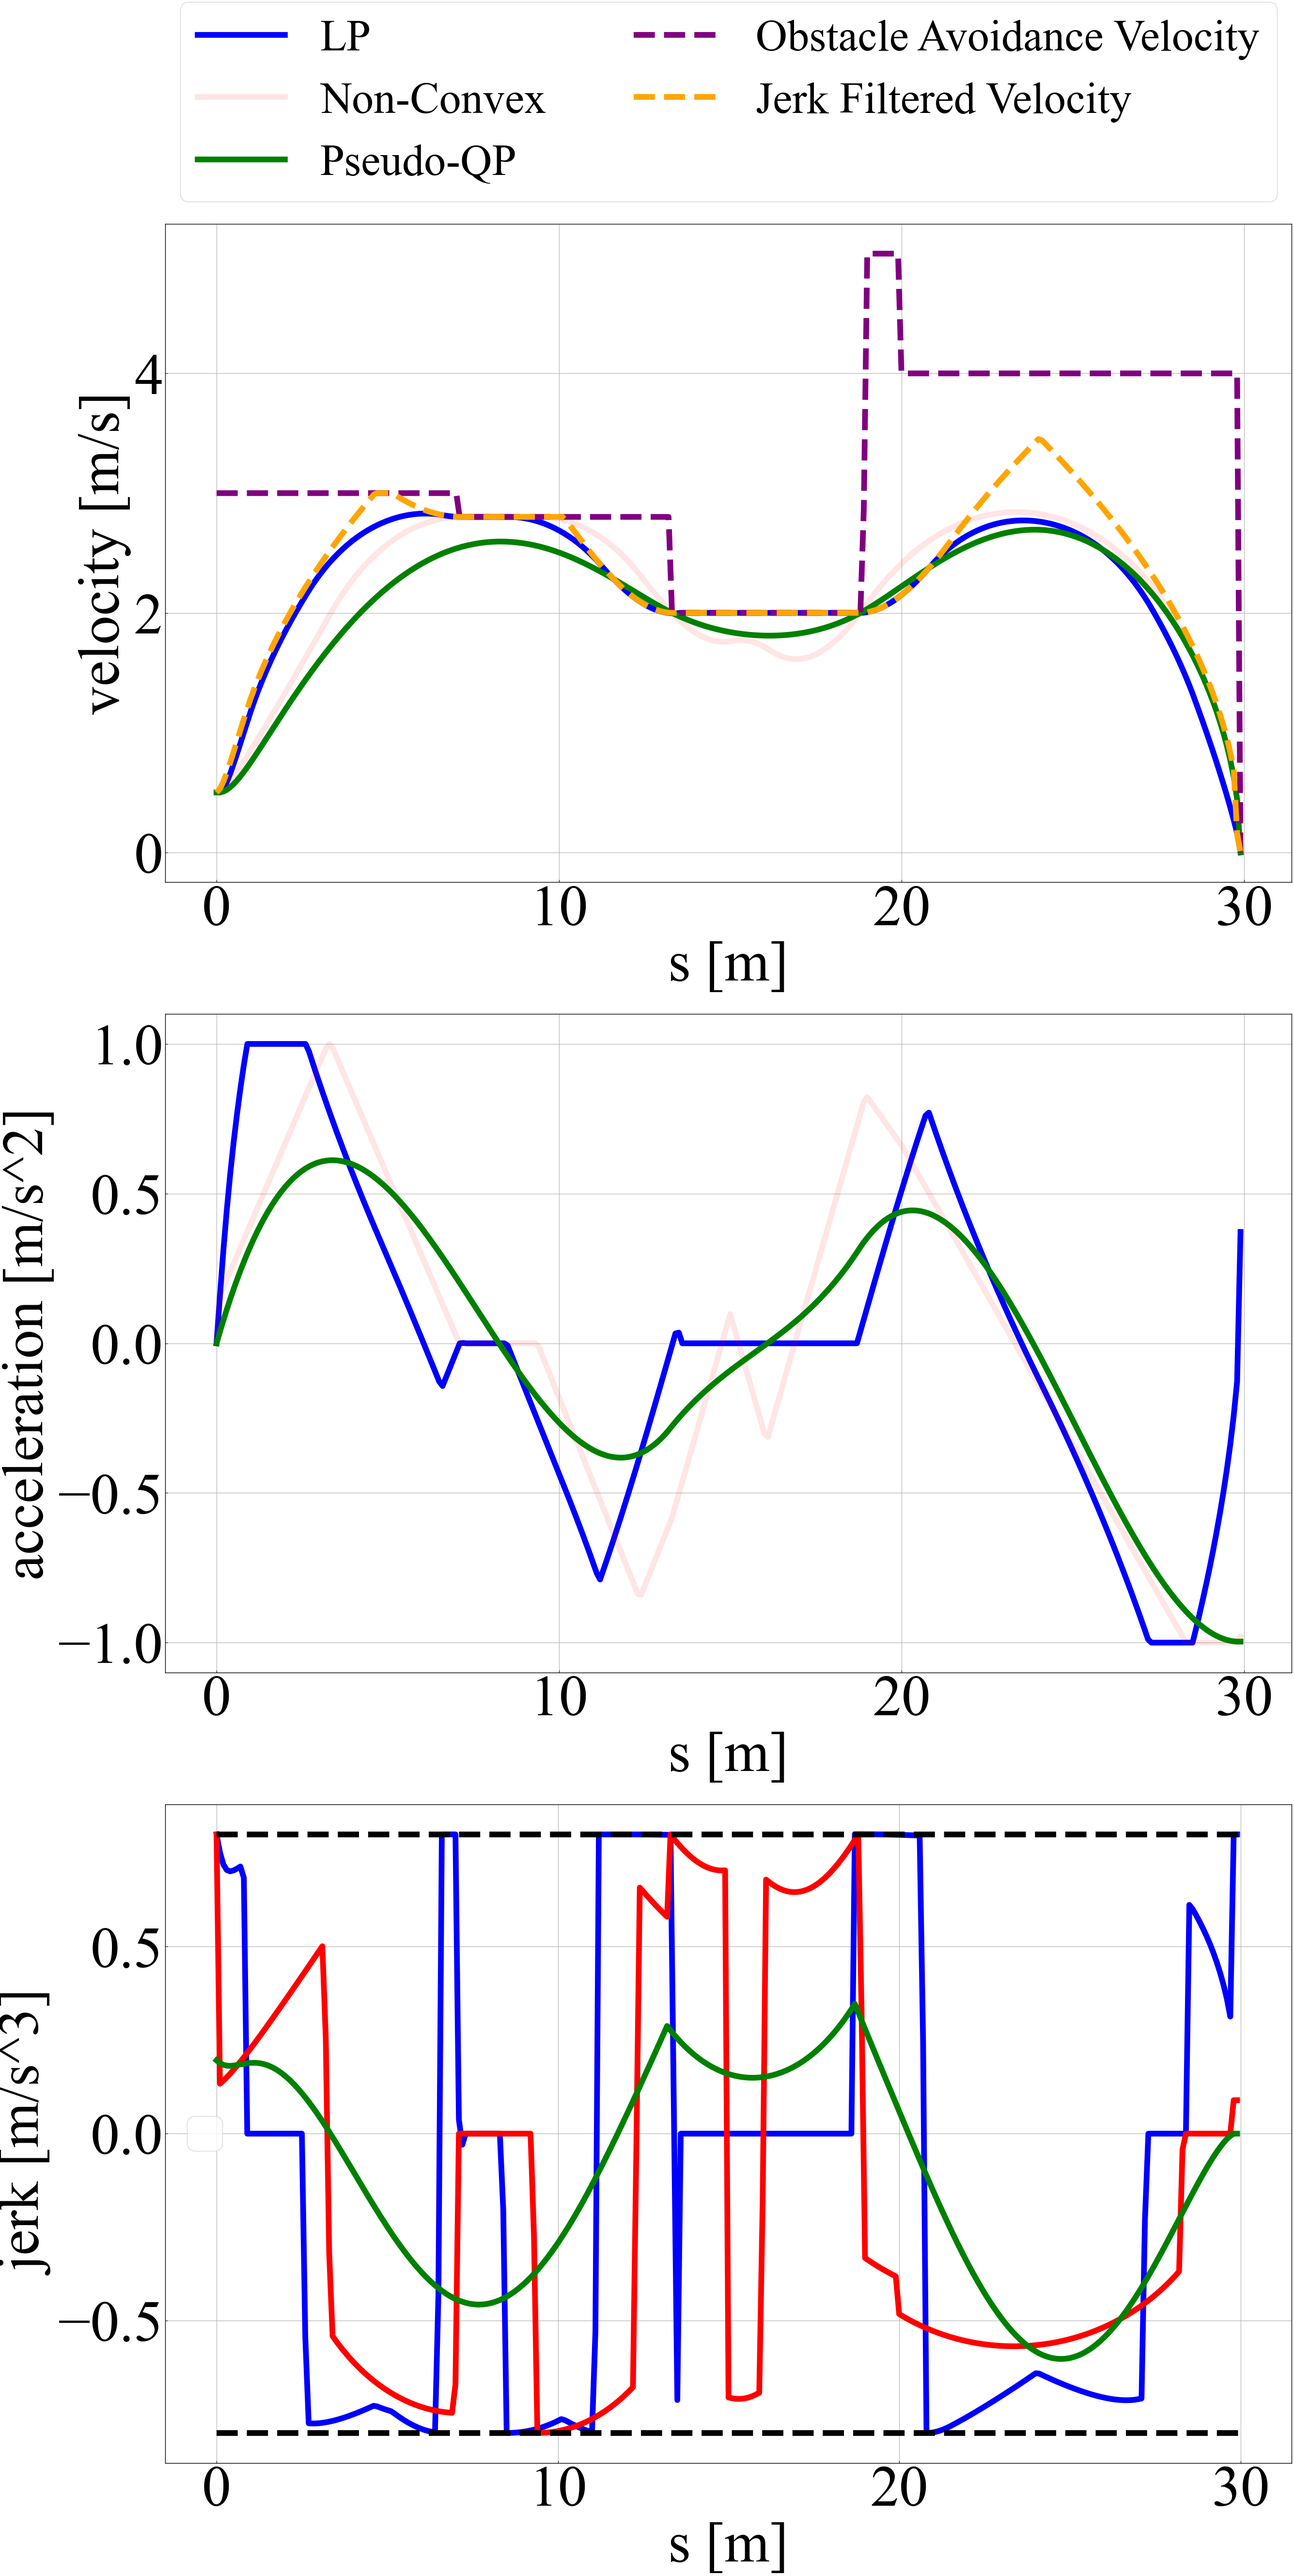
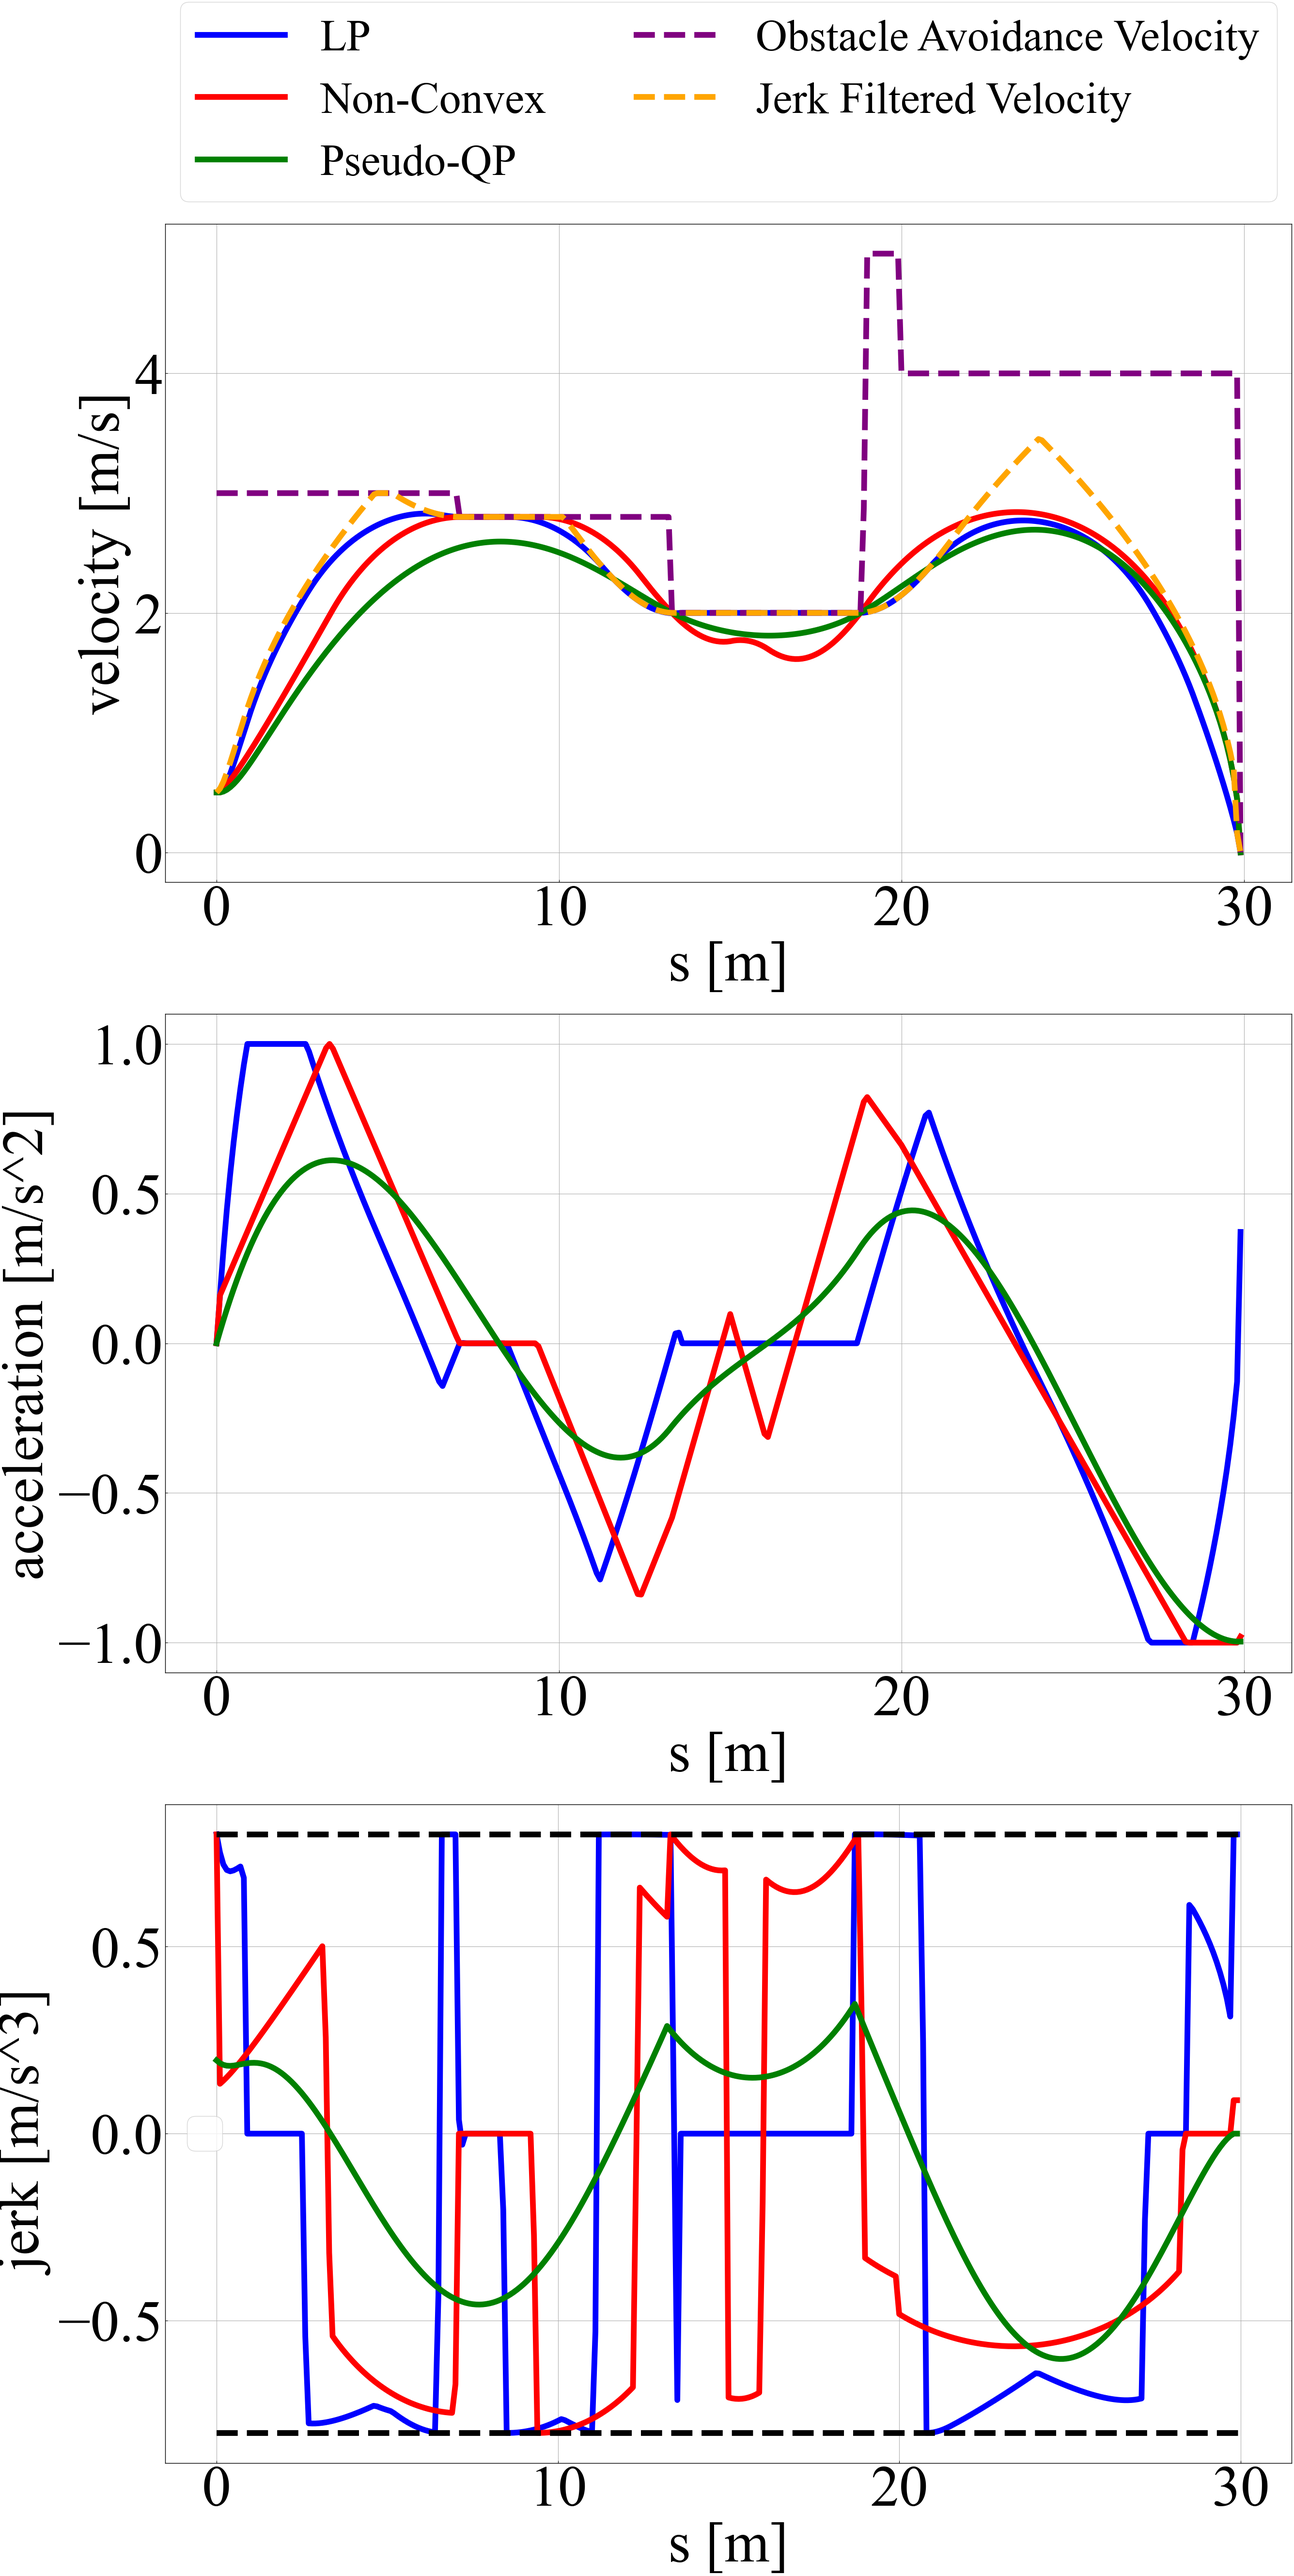
update the picture

diff --git a/script/filter_qp/visualize_experiments.py b/script/filter_qp/visualize_experiments.py
@@ -34,7 +34,7 @@ if __name__ == '__main__':
     ax3 = fig.add_subplot(313)
 
     ax1.plot(lp_data['qp_position'], lp_data['qp_velocity'], label="LP", color="blue", linewidth=linewidth_)
-    ax1.plot(nc_data['qp_position'], nc_data['qp_velocity'], label="Non-Convex", color=(1, 0, 0, 0.1,), linewidth=linewidth_,)
+    ax1.plot(nc_data['qp_position'], nc_data['qp_velocity'], label="Non-Convex", color="red", linewidth=linewidth_,)
     ax1.plot(pseudo_data['qp_position'], pseudo_data['qp_velocity'], label="Pseudo-QP", color="green", linewidth=linewidth_,)
     #ax1.plot(obs_filtered_data['position'], obs_filtered_data['original_velocity'], label="Maximum Velocity", color="black", linewidth=linewidth_)
     ax1.plot(ref_vel_data["position"], ref_vel_data["original_velocity"], color="purple", label="Obstacle Avoidance Velocity", linewidth=linewidth_, linestyle="dashed")
@@ -46,7 +46,7 @@ if __name__ == '__main__':
     ax1.legend(loc="lower center", bbox_to_anchor=(.5, 1.0), ncol=2, fontsize=legend_size_)
 
     ax2.plot(lp_data['qp_position'], lp_data['qp_acceleration'], color="blue",linewidth=linewidth_)
-    ax2.plot(nc_data['qp_position'], nc_data['qp_acceleration'], color=(1,0,0,0.1,), linewidth=linewidth_,)
+    ax2.plot(nc_data['qp_position'], nc_data['qp_acceleration'], color="red", linewidth=linewidth_,)
     ax2.plot(pseudo_data['qp_position'], pseudo_data['qp_acceleration'], color="green", linewidth=linewidth_,)
     ax2.set_xlabel("s [m]", fontsize=fontsize_)
     ax2.set_ylabel("acceleration [m/s^2]", fontsize=fontsize_)
@@ -63,4 +63,4 @@ if __name__ == '__main__':
     ax3.tick_params(labelsize=fontsize_)
     ax3.legend(fontsize=legend_size_)
 
-    plt.savefig('/Users/yutaka/Desktop/experiment_results.eps', bbox_inches="tight", pad_inches=0.05)
+    plt.savefig('/Users/yutaka/Desktop/experiment_results.png', bbox_inches="tight", pad_inches=0.05)
